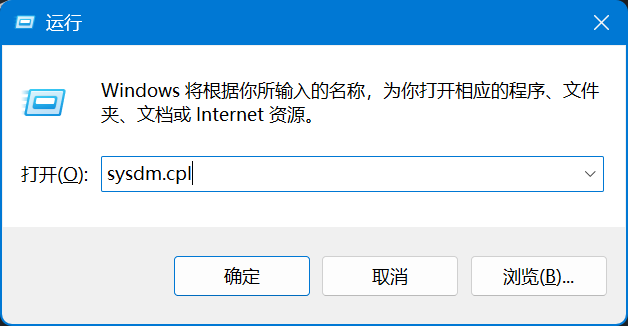
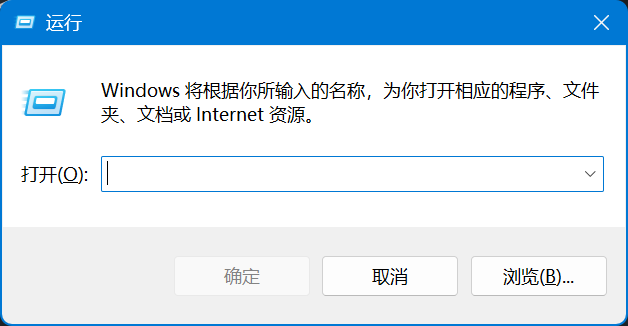
虚拟内存

diff --git a/src/guide/Memory.md b/src/guide/Memory.md
@@ -1,0 +1,30 @@
+---
+icon: moon
+title: 虚拟内存 引导页
+---
+
+首先下载这个文件，双击打开运行
+
+https://img.kookapp.cn/attachments/2025-02/12/67acc25dc5f06.bat
+
+当出现下面的界面的时候，说明运行已经完成
+
+<img width="400" src="/assets/image/虚拟内存脚本.png">
+
+然后按 `Win+R`键，打开运行对话框
+并输入`sysdm.cpl`并按下回车，打开 **系统属性**
+
+<img width="400" src="/assets/image/运行对话框.png">
+
+按照图里的顺序打开虚拟内存对话框
+
+<img width="400" src="/assets/image/虚拟内存三巨头.png">
+
+在新打开的页面中
+先取消勾选 **自动管理所有驱动器的分页文件大小**
+再把虚拟内存换到其他 **剩余容量大于 80GB 的盘** 里
+在下方的 **自定义大小中** 初始大小输入 `1024` 最大值输入 `65535` 再点击 **设置** 按钮
+
+<img width="400" src="/assets/image/虚拟内存调节完.png">
+
+之后点击三个 **“确定”** 按钮后重启电脑。
